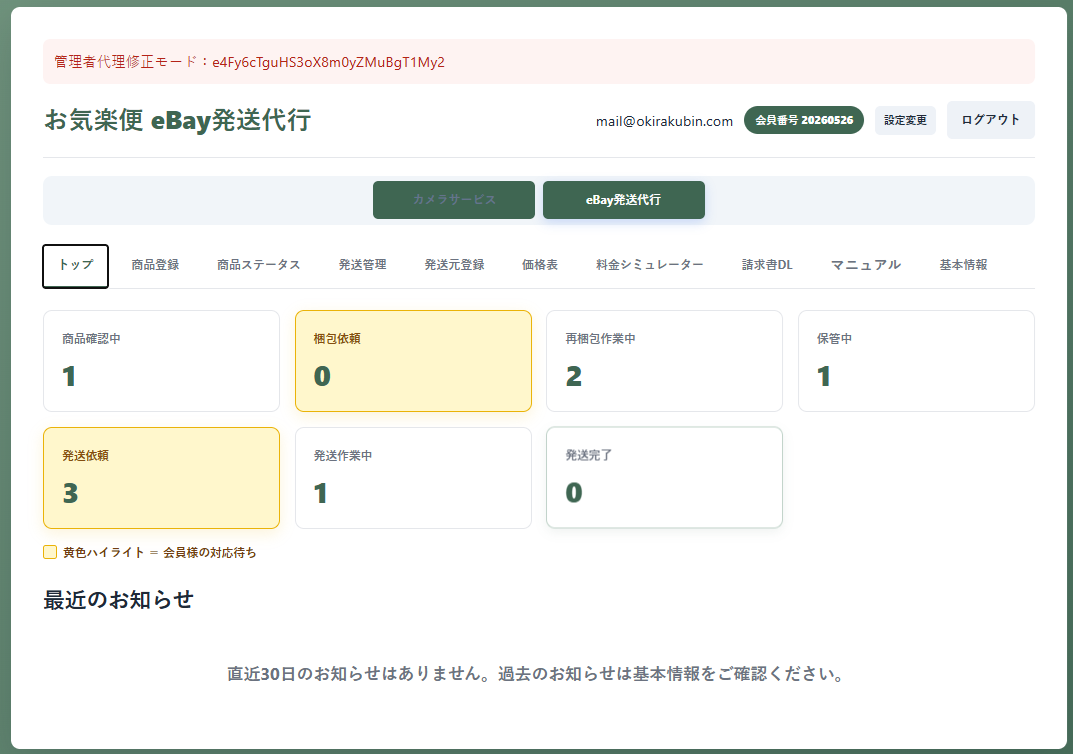
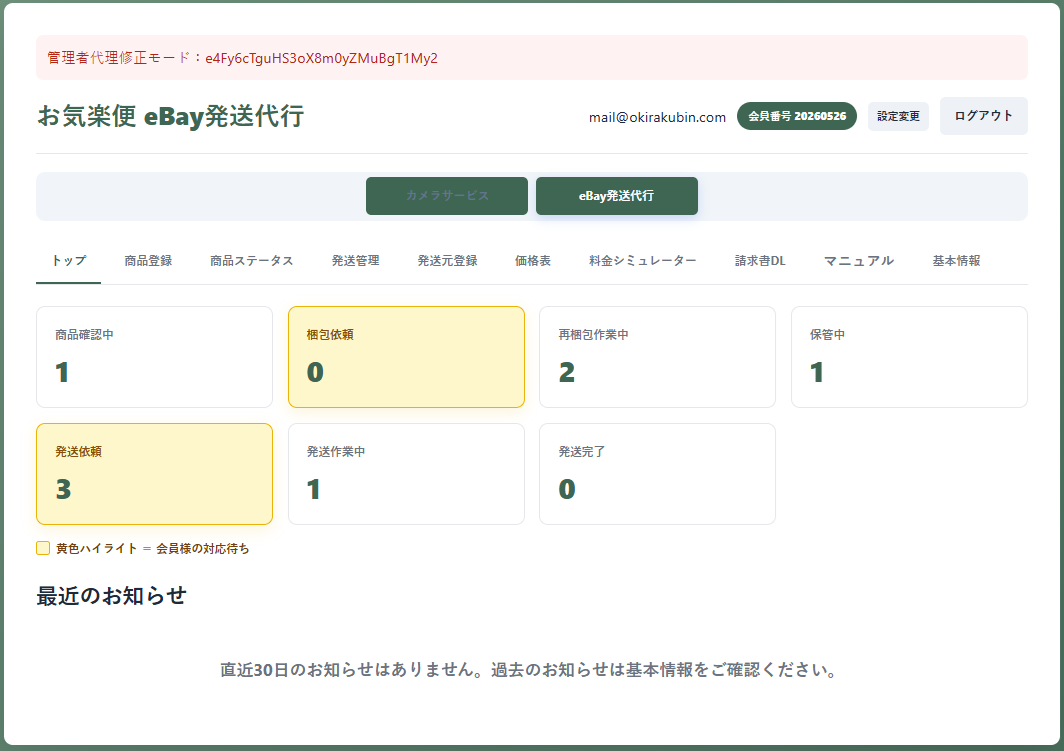
修正

diff --git a/okirakubin_ebay_member_manual.html b/okirakubin_ebay_member_manual.html
@@ -11,7 +11,7 @@
     .hero{padding-bottom:22px;border-bottom:1px solid var(--line)}h1{margin:0 0 8px;color:var(--green-dark);font-size:30px}.lead,.footer{color:var(--muted)}
     .badge{display:inline-block;margin-top:12px;padding:5px 11px;border-radius:999px;background:var(--soft);color:var(--green-dark);font-size:13px;font-weight:800}
     .toc{display:grid;grid-template-columns:repeat(auto-fit,minmax(210px,1fr));gap:10px;margin:24px 0}.toc a{padding:11px 13px;border:1px solid var(--line);border-radius:8px;color:var(--text);text-decoration:none;font-weight:700}.toc a:hover{background:var(--soft)}
-    details{margin:14px 0;border:1px solid var(--line);border-radius:9px;overflow:hidden}summary{cursor:pointer;padding:16px 18px;background:#f7faf8;font-size:18px;font-weight:800}summary::after{content:"開く";float:right;color:var(--green-dark);font-size:12px}details[open] summary::after{content:"閉じる"}.content{padding:18px}h2{margin:0 0 10px}h3{margin:20px 0 7px;color:var(--green-dark)}p,ul,ol{margin:8px 0 12px}li{margin:4px 0}
+    details,.always-open{margin:14px 0;border:1px solid var(--line);border-radius:9px;overflow:hidden}summary,.section-title{padding:16px 18px;background:#f7faf8;font-size:18px;font-weight:800}summary{cursor:pointer}summary::after{content:"開く";float:right;color:var(--green-dark);font-size:12px}details[open] summary::after{content:"閉じる"}.section-title{margin:0}.content{padding:18px}h2{margin:0 0 10px}h3{margin:20px 0 7px;color:var(--green-dark)}p,ul,ol{margin:8px 0 12px}li{margin:4px 0}
     .note,.warning{margin:14px 0;padding:12px 14px;border-radius:6px;font-weight:600}.note{border-left:4px solid var(--green);background:var(--soft)}.warning{border-left:4px solid #d69b00;background:var(--warn)}
     .manual-img{display:block;width:100%;height:auto;margin:14px 0;border:1px solid var(--line);border-radius:8px}.image-pending{display:none;margin:14px 0;padding:32px;border:1px dashed #9aac9f;border-radius:8px;background:#f8faf8;color:var(--muted);text-align:center;font-weight:700}
     table{width:100%;margin:14px 0;border-collapse:collapse;font-size:14px}th{padding:10px;background:var(--green-dark);color:#fff;text-align:left}td{padding:10px;border:1px solid var(--line);vertical-align:top}.footer{margin-top:28px;padding-top:16px;border-top:1px solid var(--line);font-size:13px}
@@ -28,30 +28,31 @@
   </header>
 
   <nav class="toc" aria-label="目次">
-    <a href="#flow">0. おきらく便を使う流れ</a><a href="#top">1. トップ画面</a><a href="#register">2. 商品登録</a><a href="#status">3. 商品ステータス</a><a href="#adjust">4. 調整・再梱包</a><a href="#shipping">5. 発送・返品依頼</a><a href="#price">6. 料金確認</a><a href="#invoice">7. 請求書</a><a href="#info">8. お知らせ・基本情報</a>
+    <a href="#flow">0. おきらく便を使う流れ</a><a href="#top">1. トップ画面</a><a href="#register">2. 商品登録</a><a href="#status">3. 商品ステータス</a><a href="#adjust">4. 梱包依頼</a><a href="#shipping">5. 発送・返品依頼</a><a href="#price">6. 料金確認</a><a href="#invoice">7. 請求書</a><a href="#info">8. お知らせ・基本情報</a>
   </nav>
 
-  <details id="flow" open><summary>0. おきらく便を使う流れ</summary><section class="content">
+  <section id="flow" class="always-open"><h2 class="section-title">0. おきらく便を使う流れ</h2><div class="content">
     <p>商品登録からサイズ確認、梱包方法の選択、発送までの全体の流れです。最初にこちらをご確認ください。</p>
     <figure><img class="manual-img" src="okirakubin_ebay_manual_assets/00_flow.png" alt="おきらく便を使う流れ" onerror="this.style.display='none';this.nextElementSibling.style.display='block'"><figcaption class="image-pending">画像準備中：00_flow.png</figcaption></figure>
-  </section></details>
+  </div></section>
 
   <details id="top"><summary>1. トップ画面</summary><section class="content">
-    <p>ログイン後、商品の件数と対応状況を確認できます。黄色の項目は会員様の操作待ちです。</p>
+    <p>ログイン後、商品のステータスと現在の対応状況を確認できます。黄色の項目は<strong>会員様の対応待ち</strong>です。内容を確認し、必要な操作を行ってください。</p>
     <figure><img class="manual-img" src="okirakubin_ebay_manual_assets/01_top.png" alt="eBay会員トップ画面" onerror="this.style.display='none';this.nextElementSibling.style.display='block'"><figcaption class="image-pending">画像準備中：01_top.png</figcaption></figure>
     <ul><li><strong>梱包依頼</strong>：梱包方法などの選択が必要です。</li><li><strong>保管中</strong>：発送または再梱包の判断ができます。</li><li><strong>発送依頼</strong>：発送方法を指定できます。</li></ul>
   </section></details>
 
   <details id="register"><summary>2. 商品登録</summary><section class="content">
-    <p>「商品登録」から、倉庫へ送る商品を登録します。</p>
+    <p>「商品登録」から、倉庫へ送る商品を登録します。登録時に、検品の有無と希望する作業内容を指定してください。</p>
     <figure><img class="manual-img" src="okirakubin_ebay_manual_assets/02_product_register.png" alt="eBay商品登録画面" onerror="this.style.display='none';this.nextElementSibling.style.display='block'"><figcaption class="image-pending">画像準備中：02_product_register.png</figcaption></figure>
     <h3>主な入力内容</h3><ul><li>商品名</li><li>管理番号（ナンバリング）</li><li>購入先URL（任意）</li><li>作業依頼</li><li>オプションとコメント（任意）</li></ul>
     <h3>検品・作業内容</h3><ul><li>検品不要</li><li>簡易検品</li><li>詳細検品</li><li>開梱して保管</li></ul>
     <p>オプションでは写真撮影などを指定できます。登録直後の「商品確認中」は、管理者の確認前であれば編集・削除できます。</p>
-    <p class="warning">商品名・管理番号・作業依頼は必須です。商品ごとに管理番号が重複しないようご確認ください。</p>
+    <p class="warning">商品名・管理番号・作業依頼は必須です。商品ごとに管理番号が重複しないようご確認ください。登録後に検品などの追加作業が発生した場合は、別途作業料金が発生することがあります。</p>
   </section></details>
 
   <details id="status"><summary>3. 商品ステータス</summary><section class="content">
+    <p>商品はステータスごとに分かれており、下記のステータスによって主な対応者が決まります。<strong>梱包依頼・保管中・発送依頼</strong>は会員様が対応する状態です。商品の状況を確認し、必要に応じて管理者へ指示・連絡をしてください。</p>
     <figure><img class="manual-img" src="okirakubin_ebay_manual_assets/03_registered_adjusting.png" alt="商品確認中と梱包依頼画面" onerror="this.style.display='none';this.nextElementSibling.style.display='block'"><figcaption class="image-pending">画像準備中：03_registered_adjusting.png</figcaption></figure>
     <table><thead><tr><th>ステータス</th><th>内容</th><th>主な対応者</th></tr></thead><tbody>
       <tr><td>商品確認中</td><td>登録後、倉庫での確認を待っている状態</td><td>お気楽便</td></tr>
@@ -64,22 +65,27 @@
     </tbody></table>
   </section></details>
 
-  <details id="adjust"><summary>4. 梱包依頼・再梱包作業中</summary><section class="content">
-    <p>梱包依頼では、管理者が入力した受取時のサイズ・重量・確認結果・写真を確認し、次の対応を選択します。</p>
+  <details id="adjust"><summary>4. 梱包依頼</summary><section class="content">
+    <p>梱包依頼では、「情報」から検品結果とサイズ感を確認できます。管理者が入力した受取時のサイズ・重量・確認結果・写真を確認し、次の対応を選択してください。</p>
     <ul><li>そのまま発送</li><li>サイズ調整・再梱包</li><li>保管する</li><li>返品を希望</li></ul>
     <p>「サイズ調整・再梱包」を選んだ場合は、梱包資材としてリサイクル材の使用可否なども指定します。</p>
     <p>再梱包が必要な場合は「再梱包作業中」へ進み、作業後に再梱包後のサイズ・重量と梱包袋の使用可否が表示されます。</p>
     <figure><img class="manual-img" src="okirakubin_ebay_manual_assets/04_repacking.png" alt="再梱包作業中画面" onerror="this.style.display='none';this.nextElementSibling.style.display='block'"><figcaption class="image-pending">画像準備中：04_repacking.png</figcaption></figure>
-    <p class="note">写真ボタンを押すと、登録された写真を大きく表示できます。写真URLが登録されている場合はリンクから確認できます。</p>
+    <p class="note">簡易アップロード写真には、商品受取時の梱包サイズや梱包状態を掲載します。写真ボタンを押すと大きく表示できます。オプションで写真・動画撮影を依頼した場合は「写真URL」にURLが表示されるため、Googleドライブで確認してください。</p>
+    <h3>梱包袋の使用可否について</h3>
+    <p>運送会社指定の梱包袋に入るかどうかは、商品の梱包サイズのみで判定しています。指定重量を超える場合は、梱包袋を使用しても重量区分の送料が適用されることがあります。詳細は各配送会社のホームページをご確認ください。基本的には、袋に入るサイズであれば防水対策としてパックに入れて発送します。</p>
     <h3>保管商品へ変更する場合</h3>
-    <p>梱包依頼または再梱包作業中の商品は、「保管商品へ移動」から保管へ変更できます。</p>
-    <p class="warning">保管へ変更する前に管理者への事前連絡が必要です。確認画面で「事前に管理者へ連絡しました」と、追加料金についての確認項目にチェックを入れてください。作業の中断・開梱・保管対応と、再度発送する際の再梱包には追加料金が発生します。</p>
+    <p>注文のキャンセルなどで保管が必要になった場合は、「保管商品へ移動」から保管へ変更できます。操作前に必ず管理者へ連絡してください。</p>
+    <p class="warning">特に作業中の商品は、作業完了後に変更すると不要な作業工数や追加料金が発生します。確認画面で「事前に管理者へ連絡しました」と、追加料金についての確認項目にチェックを入れてください。円滑な対応にご協力をお願いします。</p>
   </section></details>
 
   <details id="shipping"><summary>5. 発送・返品依頼</summary><section class="content">
-    <p>発送依頼の商品を選択し、配送サービスや発送日、必要なラベルファイルを登録してください。</p>
+    <p>商品の海外発送・国内配送・返品は、この画面から依頼してください。基本的な海外発送では「海外発送」を選択し、発行済みラベルを添付して発送依頼を行います。</p>
     <figure><img class="manual-img" src="okirakubin_ebay_manual_assets/05_storage_shipping_ready.png" alt="保管中と発送依頼画面" onerror="this.style.display='none';this.nextElementSibling.style.display='block'"><figcaption class="image-pending">画像準備中：05_storage_shipping_ready.png</figcaption></figure>
     <figure><img class="manual-img" src="okirakubin_ebay_manual_assets/06_shipping_request.png" alt="発送依頼画面" onerror="this.style.display='none';this.nextElementSibling.style.display='block'"><figcaption class="image-pending">画像準備中：06_shipping_request.png</figcaption></figure>
+    <h3>海外発送方法</h3><ol><li>発行済みラベルを添付して海外発送する</li><li>ラベル発行予定（管理者と調整）</li><li>住所を指定して海外発送する</li></ol>
+    <h3>国内配送</h3>
+    <p>不良在庫を国内で販売した場合や、国内の配送先へ送る場合は、必要に応じて「国内配送」を選択し、配送先を指定してください。国内配送は基本的にゆうパックで対応します。配送料はお気楽便が一時的に立て替え、後日請求書にて請求します。</p>
     <h3>返品方法</h3><ul><li>住所を指定して返品</li><li>QRコード・バーコードを連絡して返品</li><li>集荷を依頼して返品（集荷日時を指定）</li></ul>
     <h3>発送依頼の商品を保管へ戻す場合</h3>
     <p>発送依頼の商品を選択し、「選択中を保管商品へ戻す」から保管商品へ移動できます。</p>
@@ -88,25 +94,25 @@
   </section></details>
 
   <details id="price"><summary>6. 価格表・料金シミュレーター</summary><section class="content">
-    <p>価格表では現在の税込料金を確認できます。料金シミュレーターは、価格表に登録されている金額を参照して概算します。</p>
+    <p>価格表には、各作業の料金と検品範囲を記載しています。実際の送料や作業料金の概算は、価格表の金額を参照する料金シミュレーターで確認してください。</p>
     <figure><img class="manual-img" src="okirakubin_ebay_manual_assets/07_price_simulator.png" alt="料金シミュレーター画面" onerror="this.style.display='none';this.nextElementSibling.style.display='block'"><figcaption class="image-pending">画像準備中：07_price_simulator.png</figcaption></figure>
     <ol><li>サイズ調整・再梱包の有無を選択</li><li>梱包後サイズを選択</li><li>リサイクル材の使用可否を選択</li><li>検品内容を選択</li><li>表示された税込合計を確認</li></ol>
     <p class="note">国際送料や「個別見積」と表示される作業はシミュレーターの合計に含まれません。</p>
   </section></details>
 
   <details id="invoice"><summary>7. 請求書ダウンロード</summary><section class="content">
-    <p>管理者が発行したeBay発送代行の請求書を月ごとに確認し、CSVまたはPDFでダウンロードできます。カメラ発送代行の請求書とは分かれています。</p>
+    <p>管理者が発行したeBay発送代行の請求書を月ごとに確認し、CSVまたはPDFでダウンロードできます。</p>
     <figure><img class="manual-img" src="okirakubin_ebay_manual_assets/08_invoice_download.png" alt="eBay請求書ダウンロード画面" onerror="this.style.display='none';this.nextElementSibling.style.display='block'"><figcaption class="image-pending">画像準備中：08_invoice_download.png</figcaption></figure>
     <p class="warning">未発行の月はダウンロードできません。</p>
   </section></details>
 
   <details id="info"><summary>8. お知らせ・基本情報</summary><section class="content">
-    <p>トップにはeBay発送代行専用のお知らせが表示されます。カメラ発送代行のお知らせとは別管理です。</p>
+    <p>トップには、運用に関するお知らせが表示されます。</p>
     <p>「基本情報」では営業時間、発送時の注意事項、連絡方法などを確認できます。</p>
     <figure><img class="manual-img" src="okirakubin_ebay_manual_assets/09_basic_info.png" alt="eBay基本情報画面" onerror="this.style.display='none';this.nextElementSibling.style.display='block'"><figcaption class="image-pending">画像準備中：09_basic_info.png</figcaption></figure>
   </section></details>
 
-  <p class="footer">更新日: 2026年10月22日 / 対象: お気楽便 eBay発送代行 会員ページ</p>
+  <p class="footer">更新日: 2026年10月23日 / 対象: お気楽便 eBay発送代行 会員ページ</p>
 </main>
 </body>
 </html>

diff --git a/member-ebay.html b/member-ebay.html
@@ -600,9 +600,9 @@ body{background:linear-gradient(135deg,#6f927c 0%,#3f6652 100%)}
         <div class="form-group full">
           <label>海外発送方法 <span class="required">必須</span></label>
           <select id="internationalMethodSelect">
-            <option value="address">住所を指定して海外発送する</option>
             <option value="label">発行済みラベルを添付して海外発送する</option>
             <option value="planned">ラベル発行予定（Discordで調整）</option>
+            <option value="address">住所を指定して海外発送する</option>
           </select>
         </div>
       </div>
@@ -3652,7 +3652,7 @@ window.openShippingModal = function(type) {
   shippingRequestType.value = type;
 
   if (returnMethodSelect) returnMethodSelect.value = "address";
-  if (internationalMethodSelect) internationalMethodSelect.value = "address";
+  if (internationalMethodSelect) internationalMethodSelect.value = "label";
   updateShippingFormVisibility();
   shippingModalBackdrop.classList.add("show");
 };

diff --git a/member.html b/member.html
@@ -554,9 +554,9 @@ textarea{min-height:62px;resize:vertical}
         <div class="form-group full">
           <label>海外発送方法 <span class="required">必須</span></label>
           <select id="internationalMethodSelect">
-            <option value="address">住所を指定して海外発送する</option>
             <option value="label">発行済みラベルを添付して海外発送する</option>
             <option value="planned">ラベル発行予定（Discordで調整）</option>
+            <option value="address">住所を指定して海外発送する</option>
           </select>
         </div>
       </div>
@@ -2978,7 +2978,7 @@ window.openShippingModal = function(type) {
   shippingRequestType.value = type;
 
   if (returnMethodSelect) returnMethodSelect.value = "address";
-  if (internationalMethodSelect) internationalMethodSelect.value = "address";
+  if (internationalMethodSelect) internationalMethodSelect.value = "label";
   updateShippingFormVisibility();
   shippingModalBackdrop.classList.add("show");
 };
